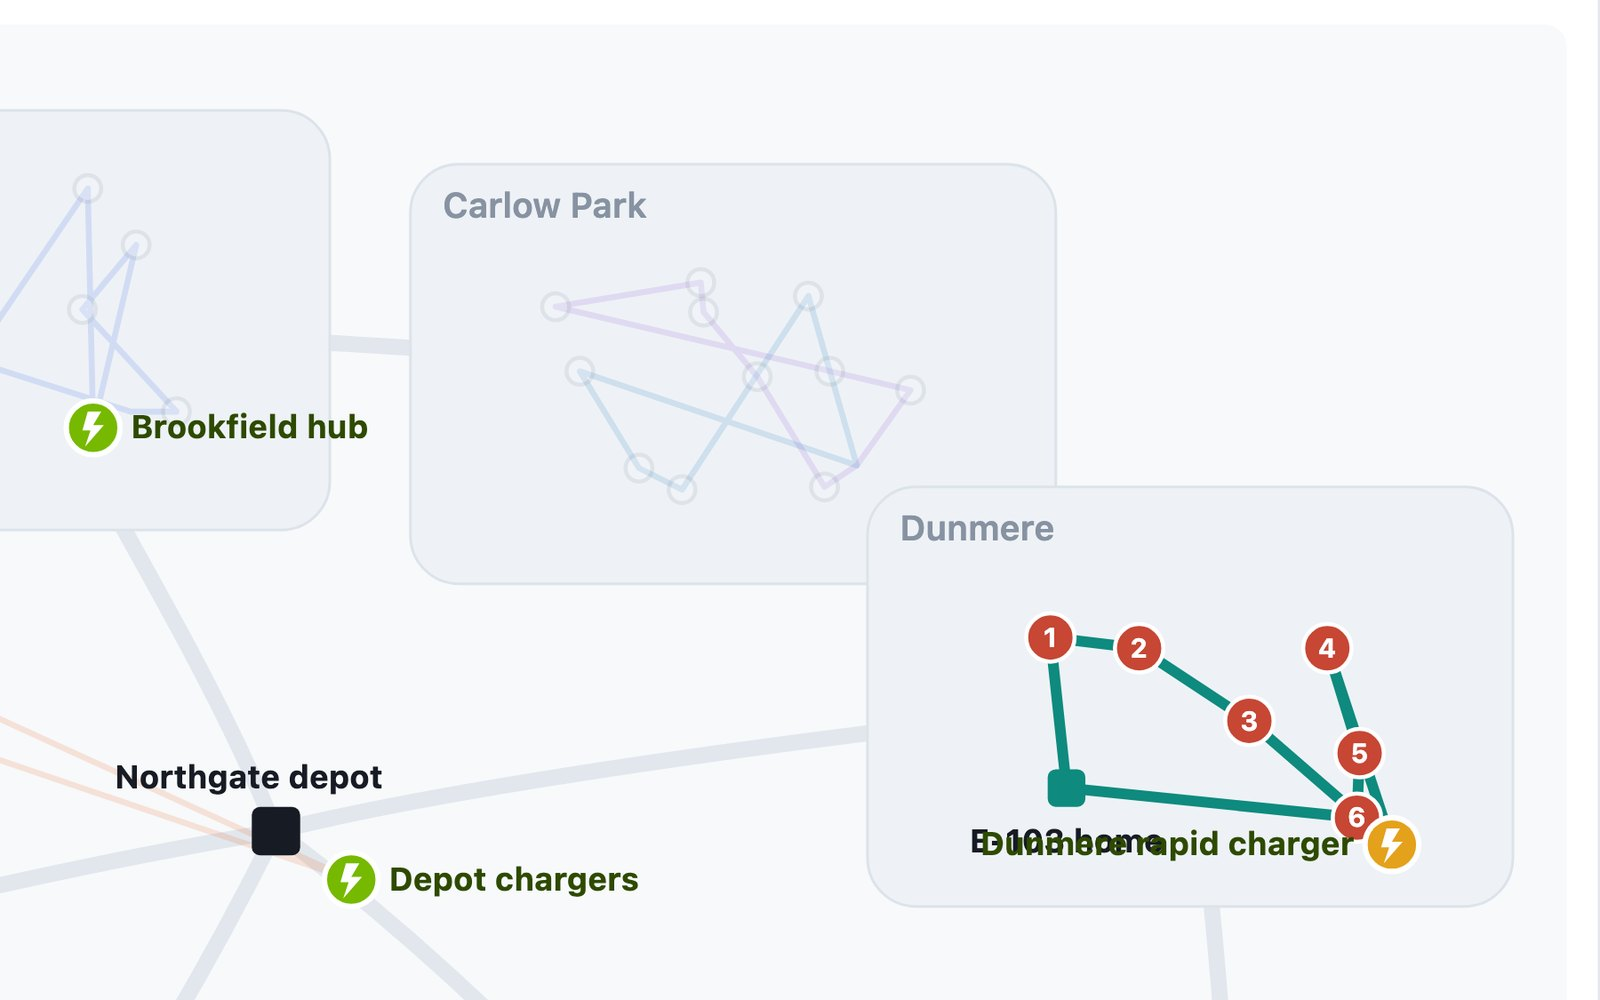
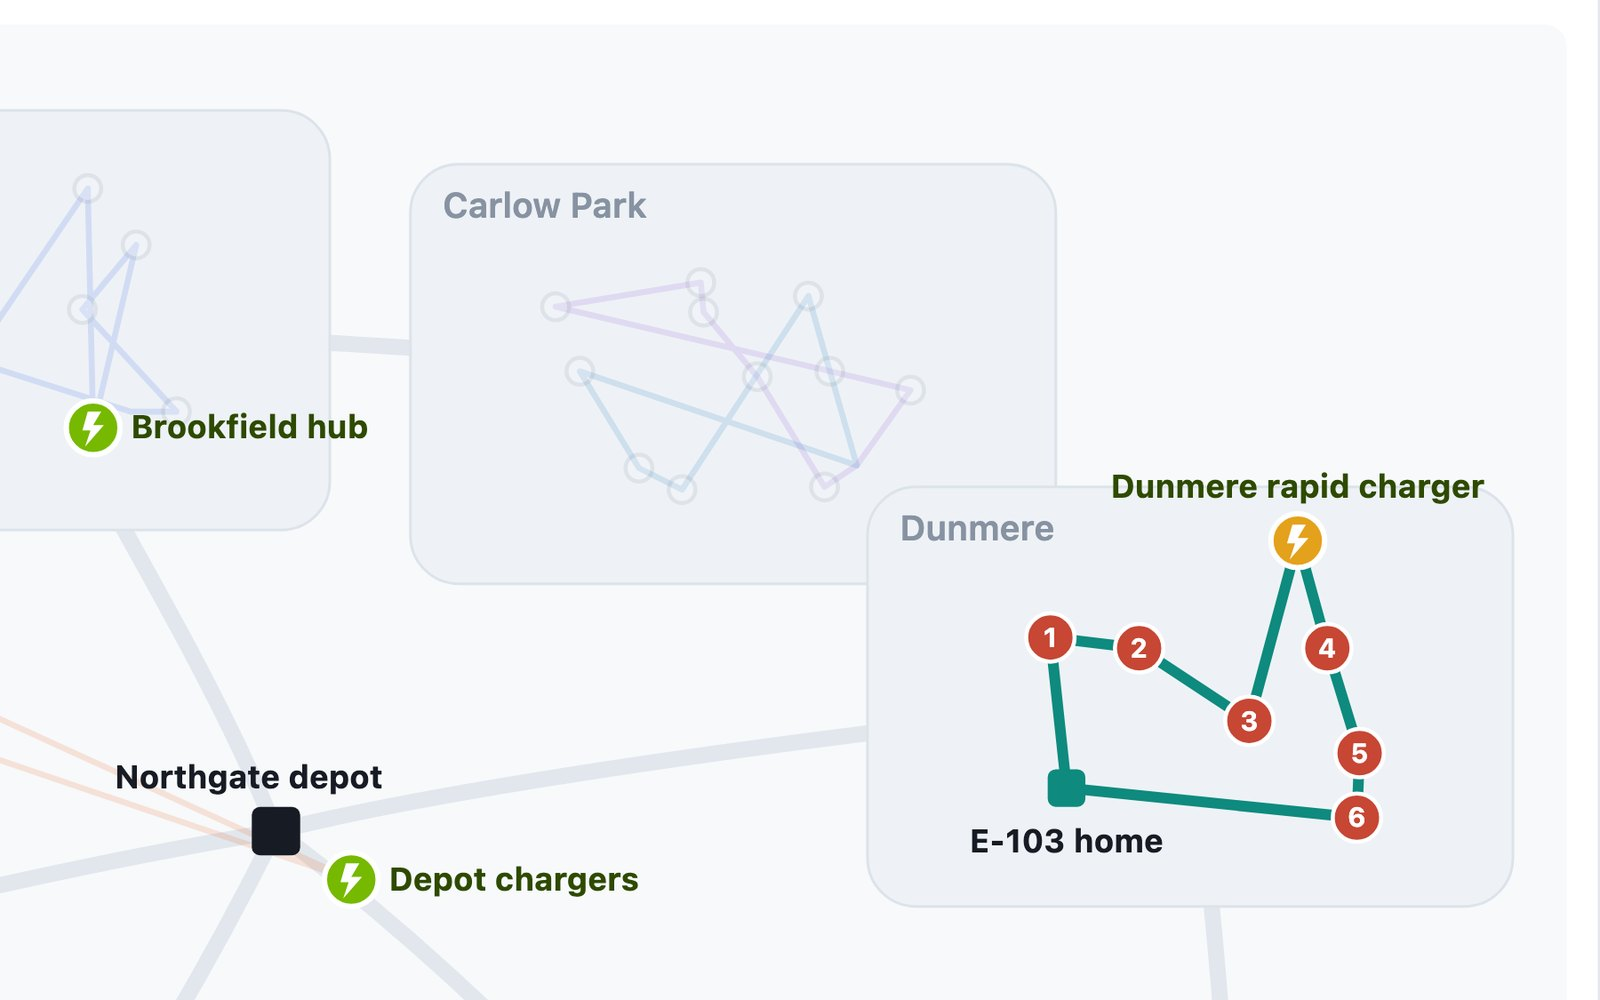
autosync: KN7X2Y65NX 2026-09-29 11:19 (7 changed)

Changed region(s): [[0.6875, 0.465, 0.9375, 0.713], [0.5938, 0.744, 0.9062, 0.868]]

diff --git a/site/data/content.js b/site/data/content.js
@@ -438,10 +438,13 @@ window.SITE_CONTENT = {
     intro: "Every product runs in your own Oracle tenancy and starts with a Jumpstart on your data — at a fixed price where one is published, otherwise scoped per engagement. Filter by the Oracle platform it runs on, or search for the job you need done.",
     searchPlaceholder: "Search products or workflows…",
     /* Round 18 (Alex): the catalog's way out is its last tile, "Looking for
-       other solution? Let's talk", into the home page's contact. */
+       other solution? Let's talk", into the home page's contact, with a product
+       tile's anatomy so it does not stand empty beside one. */
     askTile: {
       title: "Looking for another solution?",
-      body: "Tell us the workflow you need fixed. We will say which of these is closest, or what it would take to build one on your data.",
+      body: "PROVISIONAL",
+      outcomes: ["PROVISIONAL", "PROVISIONAL", "PROVISIONAL"],
+      image: "assets/img/groups/ask.svg",
       cta: { label: "Let’s talk", route: "#/#request-a-demo" }
     }
   },

diff --git a/site/demo/fleet-route-optimization/demo.js b/site/demo/fleet-route-optimization/demo.js
@@ -194,7 +194,7 @@
     D.chargers.forEach(function (c) {
       svg.push('<g class="chg' + (c.id === "CH-DUN" && warnDun ? " warn" : "") + '"><circle cx="' + c.x + '" cy="' + c.y + '" r="10"/>' +
         '<path d="M' + (c.x - 2) + "," + (c.y - 6) + " l5,0 l-3,5 l4,0 l-7,8 l2,-6 l-3,0 z\" fill=\"#fff\"/>" +
-        (c.x > 780 ? '<text text-anchor="end" x="' + (c.x - 14) + '" y="' + (c.y + 4) + '">' : '<text x="' + (c.x + 14) + '" y="' + (c.y + 4) + '">') + c.name + "</text></g>");
+        (c.x > 780 ? '<text text-anchor="middle" x="' + c.x + '" y="' + (c.y - 16) + '">' : '<text x="' + (c.x + 14) + '" y="' + (c.y + 4) + '">') + c.name + "</text></g>");
     });
     svg.push('<g class="dep"><rect x="' + (D.depot.x - 9) + '" y="' + (D.depot.y - 9) + '" width="18" height="18" rx="3"/>' +
       '<text x="' + (D.depot.x - 60) + '" y="' + (D.depot.y - 16) + '">' + D.depot.name + "</text></g>");

diff --git a/site/assets/site.css b/site/assets/site.css
@@ -1006,7 +1006,7 @@ hr { border: 0; border-top: 1px solid var(--border-subtle); margin: 0; }
 .ptile--ask .ptile-title, .ptile--ask .ptile-title a, .ptile--ask .ptile-desc,
 .ptile--ask .outcome-list li, .ptile--ask .outcome-list .icon, .ptile--ask .link-arrow { color: var(--tile-ink); }
 .ptile--ask .ptile-title a:hover, .ptile--ask .link-arrow:hover { color: var(--tile-ink); text-decoration: underline; text-underline-offset: .2em; }
-.ptile--ask .chip--tag { --fill: transparent; color: var(--tile-ink); border-color: var(--tile-ink); }
+.ptile--ask .chip--tag { --fill: transparent; --ring: inset 0 0 0 1px var(--tile-ink); color: var(--tile-ink); cursor: default; }
 .ptile--ask :focus-visible { outline-color: var(--tile-ink); }
 
 @media (prefers-reduced-motion: reduce) {

diff --git a/site/demo/fleet-route-optimization/data.js b/site/demo/fleet-route-optimization/data.js
@@ -26,7 +26,7 @@
   var CHARGERS = [
     { id: "CH-DEP", name: "Depot chargers",       x: 548, y: 318, kind: "depot · 22 kW · 6 bays" },
     { id: "CH-BRK", name: "Brookfield hub",       x: 452, y: 150, kind: "rapid · 4 bays" },
-    { id: "CH-DUN", name: "Dunmere rapid charger", x: 935, y: 305, kind: "rapid · 2 bays · shared public" },
+    { id: "CH-DUN", name: "Dunmere rapid charger", x: 900, y: 192, kind: "rapid · 2 bays · shared public" },
     { id: "CH-GLE", name: "Glenwick hub",         x: 668, y: 420, kind: "rapid · 4 bays" }
   ];
 
